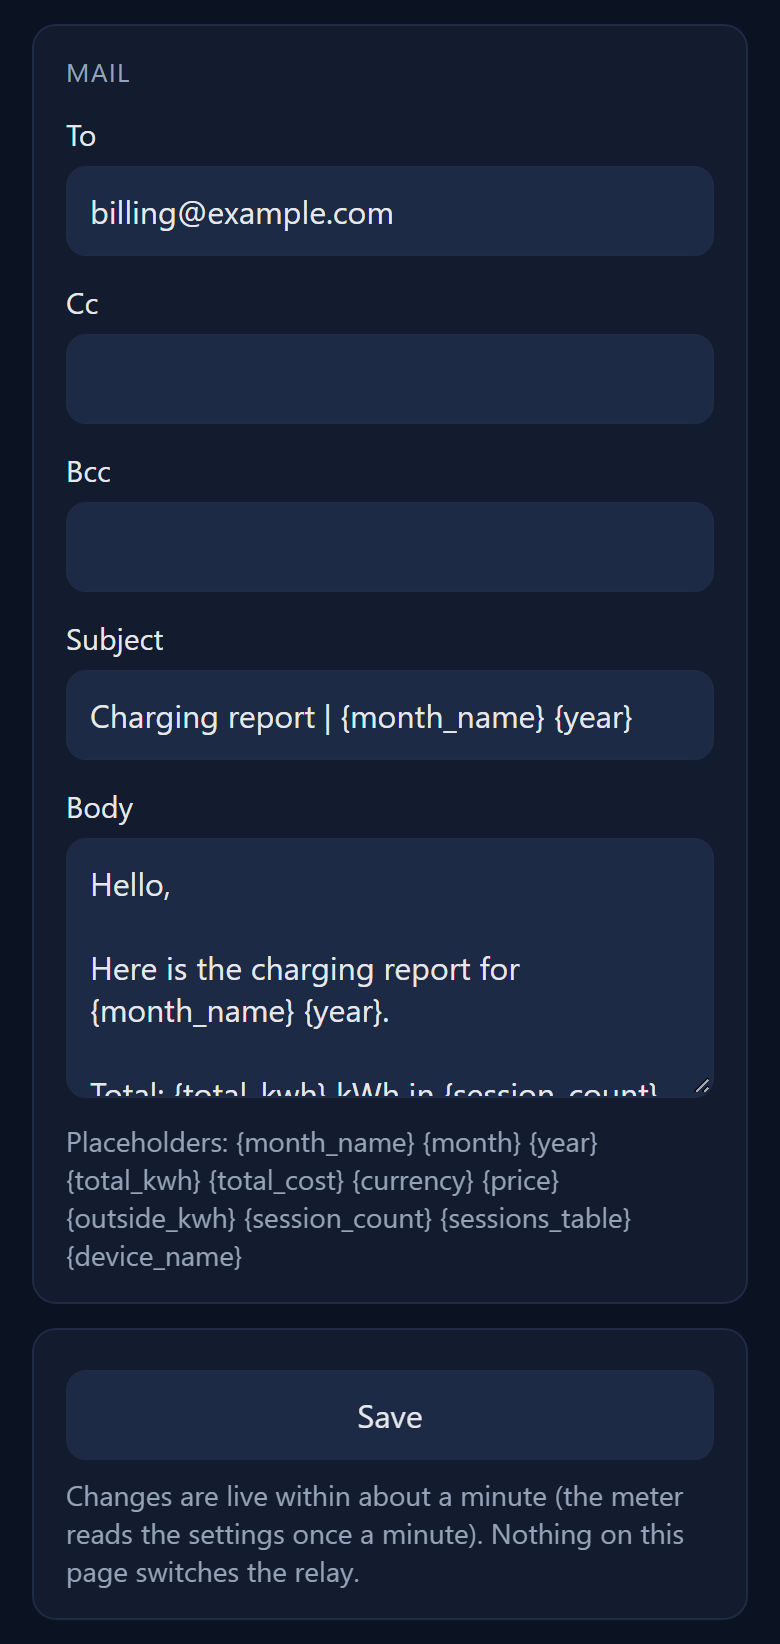
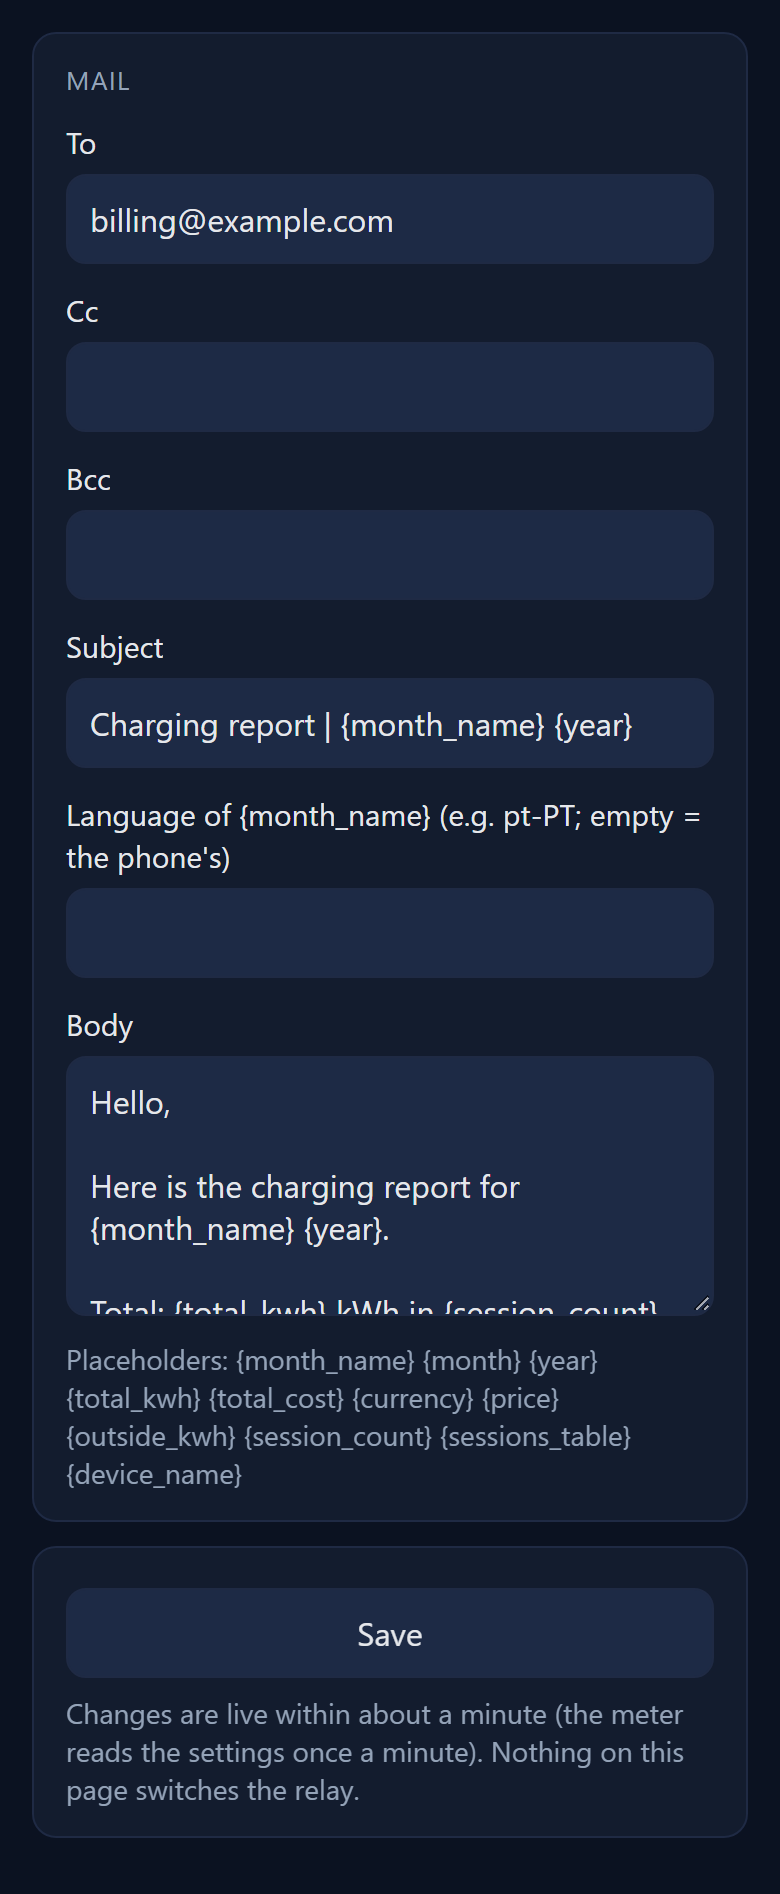
rc.10 prep: Plug PM Gen3 in the docs, PM screenshots, retaken mail card, version 1.0.0-rc.10

diff --git a/dist/installer.js b/dist/installer.js
@@ -1,6 +1,6 @@
-// ChargeLens Installer v1.0.0-rc.9
+// ChargeLens Installer v1.0.0-rc.10
 let REPO = "pjrml/chargelens";
-let TAG = "v1.0.0-rc.9";
+let TAG = "v1.0.0-rc.10";
 let BOOT = "<!DOCTYPE html><html lang=\"en\"><head><meta charset=\"utf-8\">" +
 "<meta name=\"viewport\" content=\"width=device-width,initial-scale=1\"><title>ChargeLens installer</title></head>" +
 "<body style=\"background:#0b1221;color:#94a3b8;font-family:sans-serif;padding:16px\"><div id=\"m\">Loading the installer...</div><script>" +

diff --git a/library/chargelens-installer.js b/library/chargelens-installer.js
@@ -1,6 +1,6 @@
-// ChargeLens Installer v1.0.0-rc.9
+// ChargeLens Installer v1.0.0-rc.10
 let REPO = "pjrml/chargelens";
-let TAG = "v1.0.0-rc.9";
+let TAG = "v1.0.0-rc.10";
 let BOOT = "<!DOCTYPE html><html lang=\"en\"><head><meta charset=\"utf-8\">" +
 "<meta name=\"viewport\" content=\"width=device-width,initial-scale=1\"><title>ChargeLens installer</title></head>" +
 "<body style=\"background:#0b1221;color:#94a3b8;font-family:sans-serif;padding:16px\"><div id=\"m\">Loading the installer...</div><script>" +

diff --git a/dist/install.html b/dist/install.html
@@ -1,4 +1,4 @@
-<!-- ChargeLens InstallHtml v1.0.0-rc.9 -->
+<!-- ChargeLens InstallHtml v1.0.0-rc.10 -->
 <!DOCTYPE html><html lang="en"><head><meta charset="utf-8">
 <meta name="viewport" content="width=device-width,initial-scale=1,viewport-fit=cover">
 <meta name="apple-mobile-web-app-capable" content="yes"><meta name="mobile-web-app-capable" content="yes">

diff --git a/dist/SetupHtml.html b/dist/SetupHtml.html
@@ -1,4 +1,4 @@
-<!-- ChargeLens SetupHtml v1.0.0-rc.9 -->
+<!-- ChargeLens SetupHtml v1.0.0-rc.10 -->
 <!DOCTYPE html><html lang="en"><head><meta charset="utf-8">
 <meta name="viewport" content="width=device-width,initial-scale=1,viewport-fit=cover">
 <meta name="apple-mobile-web-app-capable" content="yes"><meta name="mobile-web-app-capable" content="yes">

diff --git a/dist/plugpmg3/SetupHtml.html b/dist/plugpmg3/SetupHtml.html
@@ -1,4 +1,4 @@
-<!-- ChargeLens SetupHtml v1.0.0-rc.9 -->
+<!-- ChargeLens SetupHtml v1.0.0-rc.10 -->
 <!DOCTYPE html><html lang="en"><head><meta charset="utf-8">
 <meta name="viewport" content="width=device-width,initial-scale=1,viewport-fit=cover">
 <meta name="apple-mobile-web-app-capable" content="yes"><meta name="mobile-web-app-capable" content="yes">

diff --git a/dist/PageHtml.html b/dist/PageHtml.html
@@ -1,4 +1,4 @@
-<!-- ChargeLens PageHtml v1.0.0-rc.9 -->
+<!-- ChargeLens PageHtml v1.0.0-rc.10 -->
 <!DOCTYPE html><html lang="en"><head><meta charset="utf-8">
 <meta name="viewport" content="width=device-width,initial-scale=1,viewport-fit=cover">
 <meta name="apple-mobile-web-app-capable" content="yes"><meta name="mobile-web-app-capable" content="yes">

diff --git a/dist/plugpmg3/PageHtml.html b/dist/plugpmg3/PageHtml.html
@@ -1,4 +1,4 @@
-<!-- ChargeLens PageHtml v1.0.0-rc.9 -->
+<!-- ChargeLens PageHtml v1.0.0-rc.10 -->
 <!DOCTYPE html><html lang="en"><head><meta charset="utf-8">
 <meta name="viewport" content="width=device-width,initial-scale=1,viewport-fit=cover">
 <meta name="apple-mobile-web-app-capable" content="yes"><meta name="mobile-web-app-capable" content="yes">

diff --git a/dist/Meter.js b/dist/Meter.js
@@ -1,4 +1,4 @@
-// ChargeLens Meter v1.0.0-rc.9
+// ChargeLens Meter v1.0.0-rc.10
 function cx() {
 let D = "r,0.1,0.02,1;g,5,1,11;y,11,1,12;h,0.3,0.05,1;hr,0.05,0.01,0.5;hs,10,2,60;sg,600,60,3600;p,0,0,10;lo,1,0,1;lb,50,5,100".split(";");
 let K = [], w, B;

diff --git a/dist/plugpmg3/Meter.js b/dist/plugpmg3/Meter.js
@@ -1,4 +1,4 @@
-// ChargeLens Meter v1.0.0-rc.9
+// ChargeLens Meter v1.0.0-rc.10
 function cx() {
 let D = "r,0.1,0.02,1;g,5,1,15;y,11,1,16;h,0.3,0.05,1;hr,0.05,0.01,0.5;hs,10,2,60;sg,600,60,3600;p,0,0,10;lo,1,0,1;lb,50,5,100".split(";");
 let K = [], w, B;

diff --git a/dist/Led.js b/dist/Led.js
@@ -1,4 +1,4 @@
-// ChargeLens Led v1.0.0-rc.9
+// ChargeLens Led v1.0.0-rc.10
 let K = {r: 0.1, g: 5, y: 11, h: 0.3, hr: 0.05, hs: 10, lo: 1, lb: 50};
 function L(n, t, d) {
 if (!t || n <= d.r) return 0;

diff --git a/dist/plugpmg3/Led.js b/dist/plugpmg3/Led.js
@@ -1,4 +1,4 @@
-// ChargeLens Led v1.0.0-rc.9
+// ChargeLens Led v1.0.0-rc.10
 let K = {r: 0.1, g: 5, y: 11, h: 0.3, hr: 0.05, hs: 10, lo: 1, lb: 50};
 function L(m, t, d) {
 if (!t || m <= d.r) return 0;

diff --git a/dist/Page.js b/dist/Page.js
@@ -1,4 +1,4 @@
-// ChargeLens Page v1.0.0-rc.9
+// ChargeLens Page v1.0.0-rc.10
 let V = 1700000000;
 let aa = 5;
 function A(f, O) {
